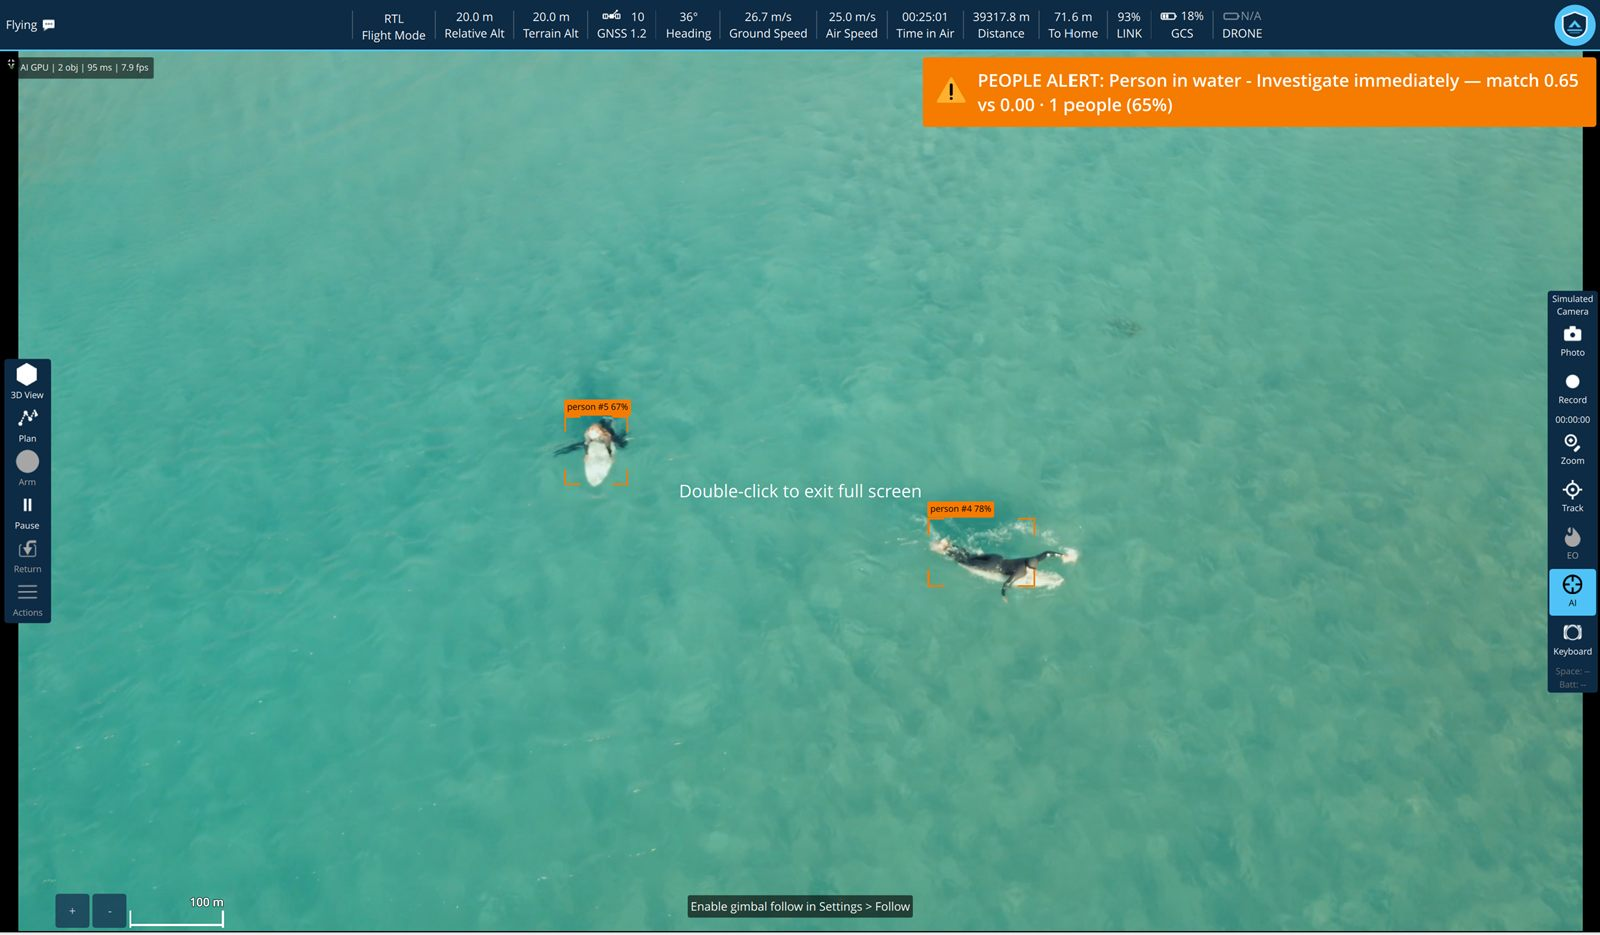
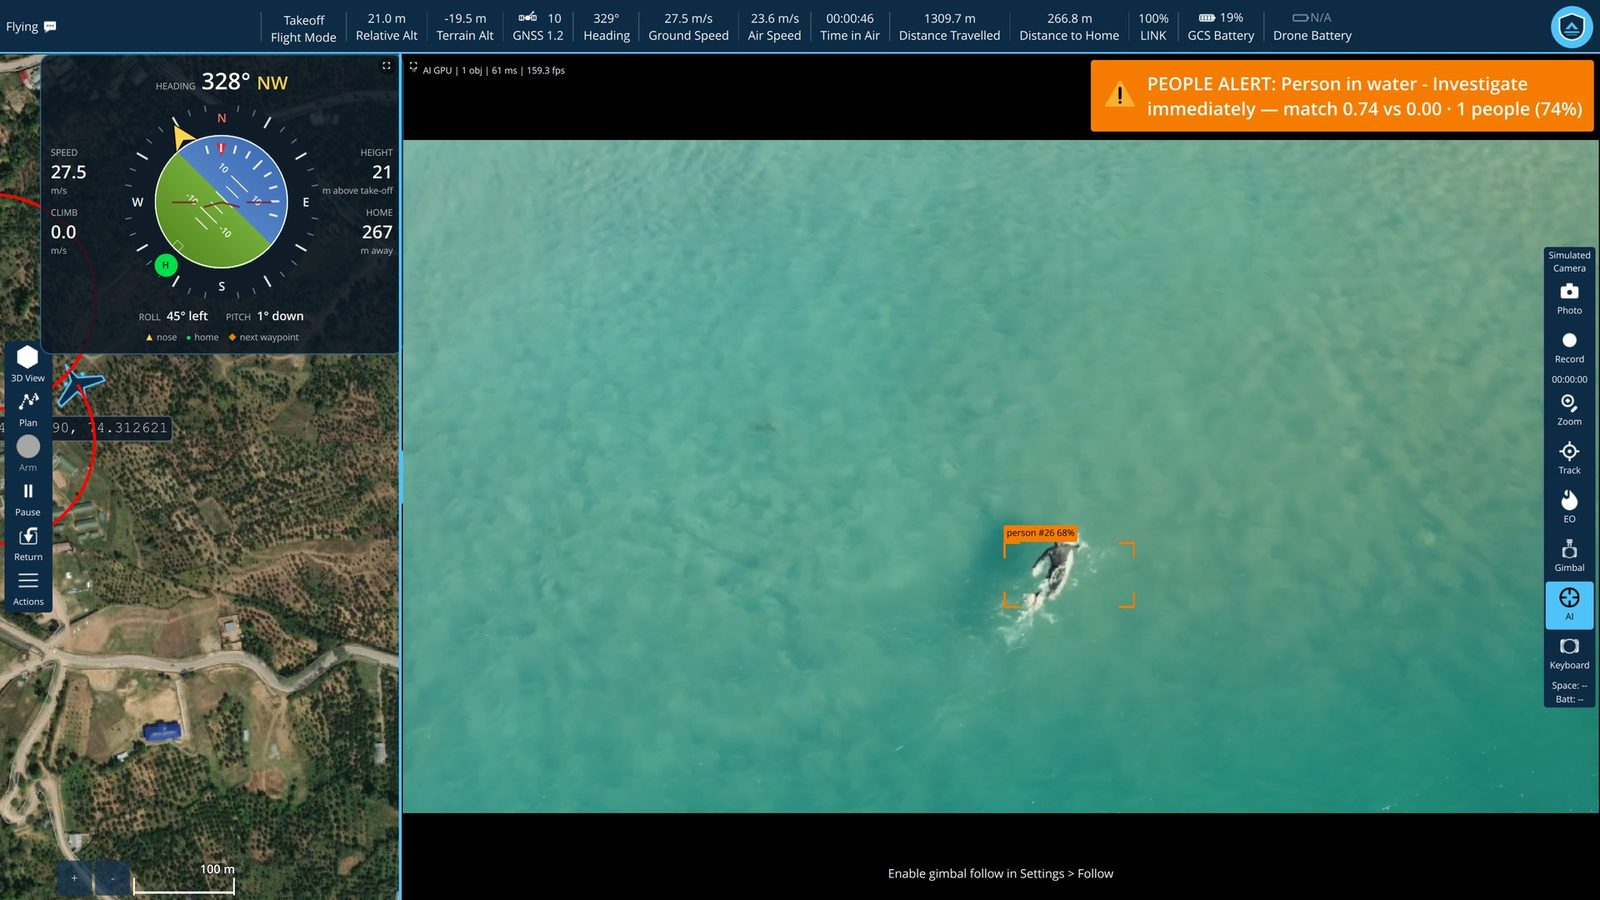
Website screenshots from the current build: multi-aircraft Fly View, plan, 3D terrain check, flood-rescue alerts
The mocked-up flood and quarry pictures are replaced by real captures with the simulator flying.
Slideshow frames now show each picture whole, so 16:9 captures keep their alert banner.

diff --git a/gcs.html b/gcs.html
@@ -57,12 +57,12 @@
         <div class="screenframe">
           <div class="rotator">
             <img class="active" src="assets/gcs-map-video.jpg"
-                 alt="Fly View: satellite map with the flight path on the left, live aerial video of a shoreline and field on the right showing vehicles and people on the ground, telemetry across the top.">
+                 alt="Fly View with three aircraft: the Aircraft panel lists Ravin 001, 007 and 002 with their modes, altitudes and speeds over the satellite map, and the selected aircraft's camera on the right shows a mountain road with people boxed by the AI, the other two aircraft's cameras in small tiles below it.">
             <img loading="lazy" decoding="async" src="assets/gcs-map-video-2.jpg"
-                 alt="Fly View in full-map mode: an RTL return pattern looping over a river and airstrip, with the aircraft icon on its final approach and telemetry across the top.">
+                 alt="Fly View in full-map mode: three aircraft flying their own missions over mountain terrain, the selected aircraft's instruments in a floating panel and the controls for all aircraft at the right.">
           </div>
         </div>
-        <p class="shot-cap">Fly View — split map and live feed.</p>
+        <p class="shot-cap">Fly View — split map and live feed, every aircraft in one window.</p>
       </div>
       <div class="window-body">
         <span class="winlabel">Fly View</span>
@@ -79,7 +79,7 @@
       <div class="window-media">
         <div class="screenframe">
           <img loading="lazy" decoding="async" src="assets/gcs-plan-view.jpg"
-               alt="Plan View: an eight-waypoint mission drawn over satellite terrain with a VTOL transition marker, and an editable mission table below listing sequence, command, latitude, longitude, altitude and altitude frame for every item.">
+               alt="Plan View: a mission of a VTOL takeoff, a waypoint, a loiter and a return to launch drawn over satellite imagery of a hillside village, with the editable mission table below listing command, latitude, longitude, altitude and altitude frame for every item.">
         </div>
         <p class="shot-cap">Plan View — mission and editable item table.</p>
       </div>
@@ -145,7 +145,7 @@
     <!-- One window, not two: this is still the same Video window above, not a separate
          screen. What changes is what is running on it -- the detector's output passed to
          an incident classifier and a rule engine, so the alert names the situation (a
-         priority group, a rollover) rather than just the object. The two real captures
+         people cut off by water, a person in water) rather than just the object. The two real captures
          sweep on the same 3s rotator as Fly View above, rather than sitting as two
          separate window blocks, since they are two examples of one capability, not two
          different screens. -->
@@ -153,19 +153,19 @@
       <div class="window-media">
         <div class="screenframe">
           <div class="rotator">
-            <img loading="lazy" decoding="async" class="active" src="assets/gcs-sar-flood.jpg"
-                 alt="The ground station running detection on a flooded neighbourhood: twenty-three objects tracked, a cluster of people on a rooftop each boxed and numbered with confidences from 88 to 98 percent, a group ring drawn around a second cluster, and an amber SAR alert reading 'Priority Group Detected — Possible Evacuation Needed (95%)'. A status line reads 'Intelligence Processing: Critical group detection in Zone 4 (Floodplain)'.">
-            <img loading="lazy" decoding="async" src="assets/gcs-mine-rollover.jpg"
-                 alt="The ground station running detection at a rock quarry: a haul truck on its side boxed in red and labelled 'TRUCK DETECTED: #TRK1002, Confidence 99%', with an orange alert reading 'MINE SITE ALERT: Vehicle Rollover, Critical Event (100%)' and the zone's GPS coordinates shown. A status line reads 'Intelligence Processing: High-Priority event in Quarry Zone 7 (Mining Operations)'.">
+            <img loading="lazy" decoding="async" class="active" src="assets/gcs-people-cut-off.jpg"
+                 alt="The ground station with an aircraft flying: its position and instruments on the map at the left, and on the video a flooded house with three people in orange gear on the roof, each boxed as a person, under an orange alert reading 'PEOPLE ALERT: People cut off by water - investigate immediately', 3 people, 79 percent.">
+            <img loading="lazy" decoding="async" src="assets/gcs-person-in-water.jpg"
+                 alt="The ground station with an aircraft flying: its position and instruments on the map at the left, and on the video open turquoise water with a single swimmer boxed as a person, under an orange alert reading 'PEOPLE ALERT: Person in water - investigate immediately', 1 person, 74 percent.">
           </div>
         </div>
-        <p class="shot-cap">Two real incidents — a flood rescue, a quarry rollover — read and raised automatically.</p>
+        <p class="shot-cap">Two flood rescues — people cut off on a roof, a person in the water — read and raised automatically.</p>
       </div>
       <div class="window-body">
         <span class="winlabel">Situational awareness</span>
         <h3>Not a detector. A model that reads the situation</h3>
         <ul class="ticks">
-          <li><b>Reads the situation, not just the object</b> — a cluster of people becomes a priority group, an overturned truck becomes a rollover, named by the incident classifier rather than left as a plain box.</li>
+          <li><b>Reads the situation, not just the object</b> — people stranded on a roof in floodwater become &ldquo;people cut off by water&rdquo;, a lone swimmer becomes &ldquo;person in water&rdquo;, named by the scene model rather than left as a plain box.</li>
           <li><b>Severity is assigned, not left to the operator</b> — graded and raised as an alert with a confidence score, ready to be triaged like an incoming report.</li>
           <li><b>Position travels with the alert</b> — the zone and coordinates are logged automatically, so a tasking arrives with a location already attached.</li>
           <li><b>The same engine, any situation</b> — no separate model per scenario; one detector and rule engine reads whatever the mission puts in front of it, on the live feed as it happens.</li>

diff --git a/rent.html b/rent.html
@@ -68,17 +68,17 @@
           <img class="active" src="assets/gcs-rvt-viewer.jpg"
                alt="The Remote Video Terminal open in a plain browser: a control bar with Video, Map and Split views, EO and IR camera sources, Pause and an AI boxes toggle, a green Live indicator and the stream size, over sharp aerial video of a cargo ship on a wide estuary with a green detection box labelled boat 75 percent drawn around it.">
           <img src="assets/gcs-plan-view.jpg" loading="lazy"
-               alt="Plan View: an eight-waypoint mission drawn over satellite terrain with a VTOL transition marker, and an editable mission table below listing sequence, command, latitude, longitude, altitude and altitude frame for every item.">
+               alt="Plan View: a mission of a VTOL takeoff, a waypoint, a loiter and a return to launch drawn over satellite imagery of a hillside village, with the editable mission table below listing command, latitude, longitude, altitude and altitude frame for every item.">
           <img src="assets/gcs-3d-plan.jpg" loading="lazy"
-               alt="The ground station's 3D view, a planned route drawn as a chain of waypoints over real mountain terrain with leg distances and maximum terrain height shown along the top.">
+               alt="The 3D view over real mountain terrain: the leg that runs into the hillside is drawn in red and marked 'Route hits ground here, between 2 and 3', with the camera controls for the 3D view at the bottom right and the aircraft's own video and a people alert alongside.">
           <img src="assets/gcs-map-video.jpg" loading="lazy"
-               alt="Fly View: satellite map with the flight path on the left, live aerial video of a shoreline and field on the right showing vehicles and people on the ground, telemetry across the top.">
+               alt="Fly View with three aircraft: the Aircraft panel lists Ravin 001, 007 and 002 with their modes, altitudes and speeds over the satellite map, and the selected aircraft's camera on the right shows a mountain road with people boxed by the AI, the other two aircraft's cameras in small tiles below it.">
           <img src="assets/gcs-video-mountain.jpg" loading="lazy"
                alt="The station in full-screen video over a mountain road, cars and pack animals visible along the route, with only the telemetry bar and camera toolbar over the picture — no floating panels, no analytics overlay.">
-          <img src="assets/gcs-sar-flood.jpg" loading="lazy"
-               alt="The ground station running detection on a flooded neighbourhood: twenty-three objects tracked, a cluster of people on a rooftop each boxed and numbered with confidences from 88 to 98 percent, a group ring drawn around a second cluster, and an amber SAR alert reading 'Priority Group Detected — Possible Evacuation Needed (95%)'. A status line reads 'Intelligence Processing: Critical group detection in Zone 4 (Floodplain)'.">
-          <img src="assets/gcs-mine-rollover.jpg" loading="lazy"
-               alt="The ground station running detection at a rock quarry: a haul truck on its side boxed in red and labelled 'TRUCK DETECTED: #TRK1002, Confidence 99%', with an orange alert reading 'MINE SITE ALERT: Vehicle Rollover, Critical Event (100%)' and the zone's GPS coordinates shown. A status line reads 'Intelligence Processing: High-Priority event in Quarry Zone 7 (Mining Operations)'.">
+          <img src="assets/gcs-people-cut-off.jpg" loading="lazy"
+               alt="The ground station with an aircraft flying: its position and instruments on the map at the left, and on the video a flooded house with three people in orange gear on the roof, each boxed as a person, under an orange alert reading 'PEOPLE ALERT: People cut off by water - investigate immediately', 3 people, 79 percent.">
+          <img src="assets/gcs-person-in-water.jpg" loading="lazy"
+               alt="The ground station with an aircraft flying: its position and instruments on the map at the left, and on the video open turquoise water with a single swimmer boxed as a person, under an orange alert reading 'PEOPLE ALERT: Person in water - investigate immediately', 1 person, 74 percent.">
         </div>
       </div>
 
@@ -91,17 +91,17 @@
         <div class="acap">
           <span class="atype">Plan view</span>
           <b>Plan the mission, then edit it as a table</b>
-          <span class="ameta">Waypoints over satellite terrain, VTOL transition marked</span>
+          <span class="ameta">VTOL takeoff, waypoint, loiter and return over satellite imagery</span>
         </div>
         <div class="acap">
           <span class="atype">3D view</span>
           <b>Walk the route over real elevation</b>
-          <span class="ameta">Leg distances and maximum terrain height along the top</span>
+          <span class="ameta">A leg that would hit the ground is marked in red before take-off</span>
         </div>
         <div class="acap">
           <span class="atype">Fly view</span>
           <b>Map and live feed, side by side</b>
-          <span class="ameta">Flight path, telemetry and the camera in one window</span>
+          <span class="ameta">Every aircraft, its telemetry and its camera in one window</span>
         </div>
         <div class="acap">
           <span class="atype">Video window</span>
@@ -115,8 +115,8 @@
         </div>
         <div class="acap">
           <span class="atype">AI analytics</span>
-          <b>Incidents graded and raised</b>
-          <span class="ameta">A haul truck on its side, flagged the moment it appeared</span>
+          <b>Person in water, raised on its own</b>
+          <span class="ameta">One swimmer in open water, boxed and alerted with a confidence score</span>
         </div>
       </div>
     </div>

diff --git a/index.html b/index.html
@@ -112,9 +112,9 @@
       <div class="screenframe">
         <div class="alertstage">
           <img loading="lazy" decoding="async" class="active" src="assets/alert-people-rooftop.jpg"
-               alt="The ground station over a flooded town, the water risen to the eaves. Four people in orange rescue gear are gathered on a tiled rooftop, each boxed and labelled — person #309 at 77 percent, person #310 at 68 percent, person #311 at 67 percent — with a truck picked out at 83 percent. An amber banner reads 'PEOPLE ALERT: People cut off by water - Investigate immediately — match 0.58 vs 0.03 · 3 people · 1 vehicles (55%)'.">
+               alt="The ground station with an aircraft flying: its position and instruments on the map at the left, and on the video a flooded house with three people in orange gear on the roof, each boxed as a person, under an orange alert reading 'PEOPLE ALERT: People cut off by water - investigate immediately', 3 people, 79 percent.">
           <img src="assets/alert-people-swimmer.jpg" loading="lazy"
-               alt="A wide stretch of open turquoise water seen from altitude, empty but for two swimmers far apart. Both are boxed and labelled, person #5 at 67 percent and person #4 at 78 percent. An amber banner reads 'PEOPLE ALERT: Person in water - Investigate immediately — match 0.65 vs 0.00 · 1 people (65%)'.">
+               alt="The ground station with an aircraft flying: its position and instruments on the map at the left, and on the video open turquoise water with a single swimmer boxed as a person, under an orange alert reading 'PEOPLE ALERT: Person in water - investigate immediately', 1 person, 74 percent.">
           <img src="assets/alert-vehicle-water.jpg" loading="lazy"
                alt="A top-down view of a pale blue car stranded in brown floodwater beside a submerged roadway, wake streaming past it. The car is boxed and labelled car #351 at 94 percent. An amber banner reads 'VEHICLE ALERT: Vehicle in water - Investigate - occupants unknown — match 0.73 vs 0.24 · 1 vehicles · Flooding 0.70 (48%)'.">
           <img src="assets/alert-vehicle-fire.jpg" loading="lazy"
@@ -128,12 +128,12 @@
         <div class="acap active">
           <span class="atype">People alert</span>
           <b>People cut off by water — investigate immediately</b>
-          <span class="ameta">3 people · 1 vehicle · match 0.58 vs 0.03 · 55%</span>
+          <span class="ameta">3 people · match 0.81 vs 0.02 · 79%</span>
         </div>
         <div class="acap">
           <span class="atype">People alert</span>
           <b>Person in water — investigate immediately</b>
-          <span class="ameta">1 person · match 0.65 vs 0.00 · 65%</span>
+          <span class="ameta">1 person · match 0.74 vs 0.00 · 74%</span>
         </div>
         <div class="acap">
           <span class="atype">Vehicle alert</span>

diff --git a/assets/site.css b/assets/site.css
@@ -355,8 +355,10 @@ section.band.alt{background:rgba(7,16,28,.34)}
    and simply doesn't rotate, so this degrades to a normal static screenshot rather than
    an empty frame. aspect-ratio holds the frame's height since absolutely positioned
    slides contribute none of their own. */
-.rotator{position:relative;aspect-ratio:2880/1661;border-radius:2px;overflow:hidden}
-.rotator img{position:absolute;inset:0;width:100%;height:100%;object-fit:cover;
+/* contain, not cover: the captures are not all one shape, and cover trimmed the right edge of the 16:9 ones,
+   which is where the alert banner sits. */
+.rotator{position:relative;aspect-ratio:2880/1661;border-radius:2px;overflow:hidden;background:#000}
+.rotator img{position:absolute;inset:0;width:100%;height:100%;object-fit:contain;
              display:block;opacity:0;transition:opacity .7s ease}
 .rotator img.active{opacity:1}
 
@@ -404,7 +406,7 @@ section.band.alt{background:rgba(7,16,28,.34)}
    shunt everything below it up and down on every crossfade. */
 .alertstage{position:relative;aspect-ratio:1600/938;border-radius:2px;overflow:hidden;background:#000}
 .alertstage img{
-  position:absolute;inset:0;width:100%;height:100%;object-fit:cover;display:block;
+  position:absolute;inset:0;width:100%;height:100%;object-fit:contain;display:block;
   opacity:0;transition:opacity .7s ease;
 }
 .alertstage img.active{opacity:1}
